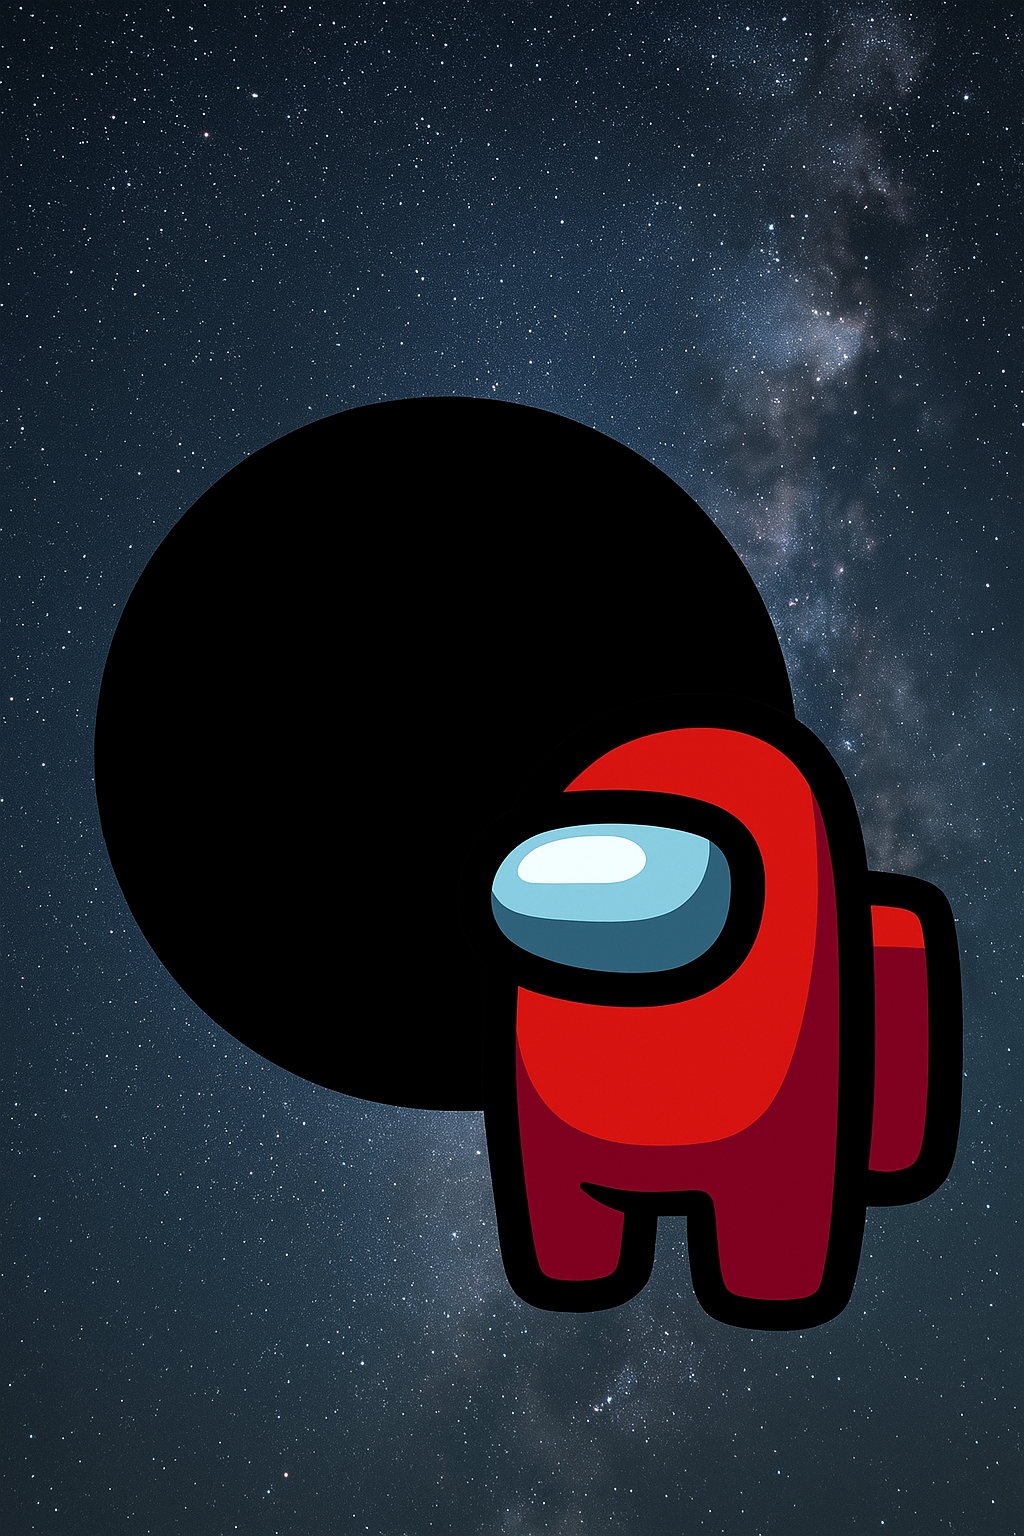
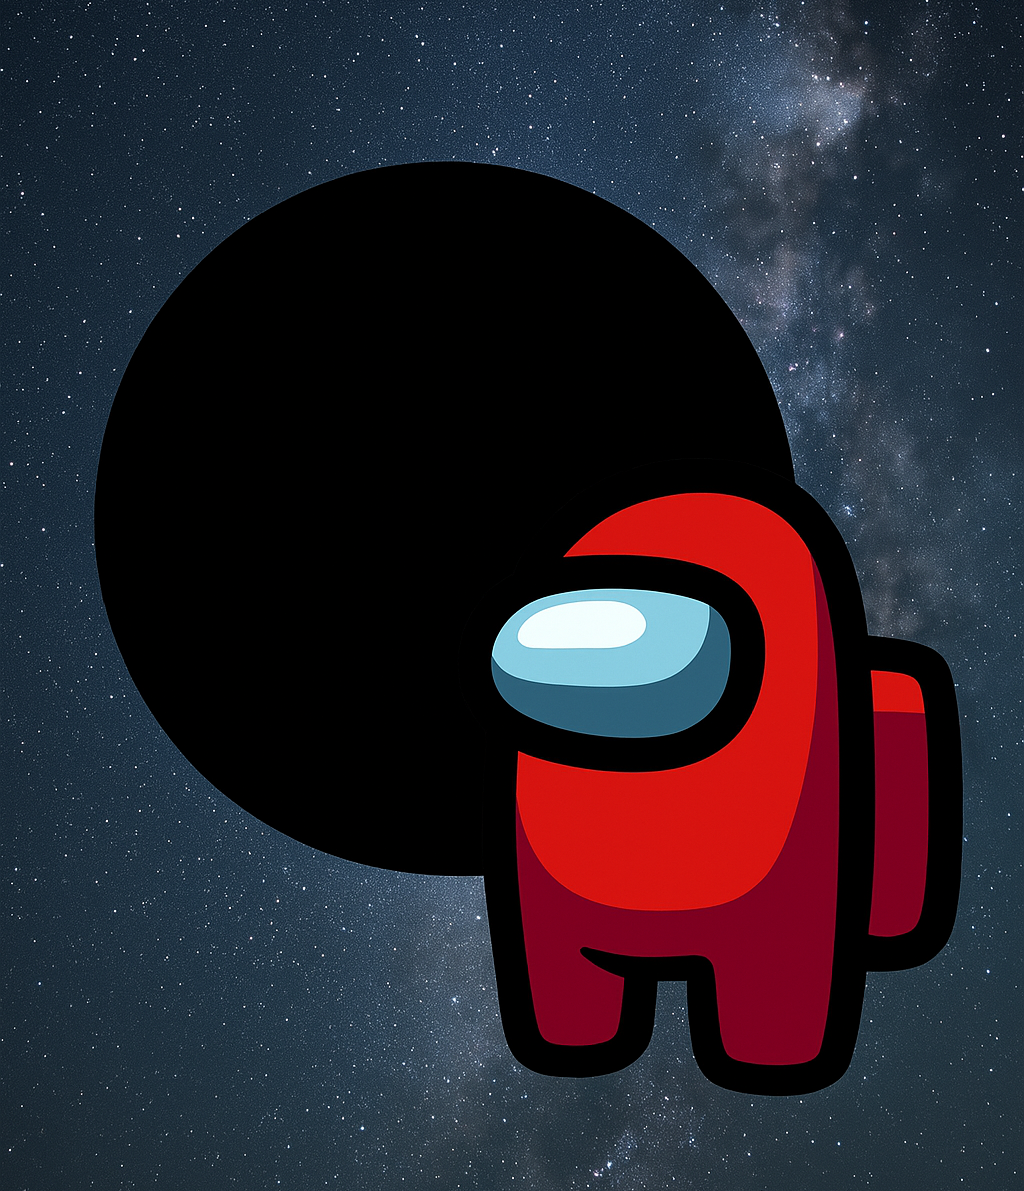
cropped impostor image, added arxiv url

diff --git a/index.html b/index.html
@@ -88,9 +88,9 @@ Acknowledgment: J. Mack (STScI) and G. Piotto (University of Padova, Italy) </i>
 									<p> </p>
 									<div class="features">
 										<article>
-											<a href="#" class="image"><img src="images/dormant_bh.tiff" alt="" /></a>
+											<a href="http://arxiv.org/abs/2510.05982" class="image"><img src="images/dormant_bh.tiff" alt="" /></a>
 											<div class="inner">
-												<h4>Hunting for dormant black holes in the Milky Way</h4>
+												<h4><a href="http://arxiv.org/abs/2510.05982">Hunting for dormant black holes in the Milky Way</h4>
 												<p>While population synthesis models anticipate billions of stellar-mass BHs in the Milky Way, only a few have been identified, mostly in X-ray-emitting, accreting binary systems.
 													My research instead concentrates on dormant BHs in detached binary systems. These BHs induce distinct variations in their companion's radial velocity, flux, and light-centroid position,
 													offering an indirect detection method.
@@ -140,8 +140,8 @@ Acknowledgment: J. Mack (STScI) and G. Piotto (University of Padova, Italy) </i>
 										<p>You can find my publications on <a href="https://ui.adsabs.harvard.edu/search/filter_aff_facet_hier_fq_aff=OR&filter_aff_facet_hier_fq_aff=aff_facet_hier%3A%220%2FU%20Gottingen%22&filter_aff_facet_hier_fq_aff=aff_facet_hier%3A%220%2FMax%20Planck%22&fq=%7B!type%3Daqp%20v%3D%24fq_aff%7D&fq_aff=(aff_facet_hier%3A%220%2FU%20Gottingen%22%20OR%20aff_facet_hier%3A%220%2FMax%20Planck%22)&q=%20author%3A%22Johanna%20M%C3%BCller-Horn%22&sort=date%20desc%2C%20bibcode%20desc&p_=0">ADS</a> or <a href="https://arxiv.org/search/?query=J.+M%C3%BCller-Horn&searchtype=author&abstracts=show&order=-announced_date_first&size=50">the arxiv</a>.</p>
 										<h4>First-author papers</h4>
 										<li class='enumerated-item'>  Müller-Horn, J. et al. <b>"Dormant BH candidates from Gaia DR3 summary diagnostics"</b>, Submitted to A&A:
-											 <a href="#">ADS</a>,
-											 <a href="#">arxiv</a>.</p>
+											 <a href="http://arxiv.org/abs/2510.05982">ADS</a>,
+											 <a href="http://arxiv.org/abs/2510.05982">arxiv</a>.</p>
 									  </li>
 										<li class='enumerated-item'>  Müller-Horn, J. et al. <b>"HIP 15429: A newborn Be star on an eccentric binary orbit"</b>, A&A, Volume 701, A9, 2025:
 											 <a href="https://ui.adsabs.harvard.edu/abs/2025arXiv250406973M/abstract">ADS</a>,
